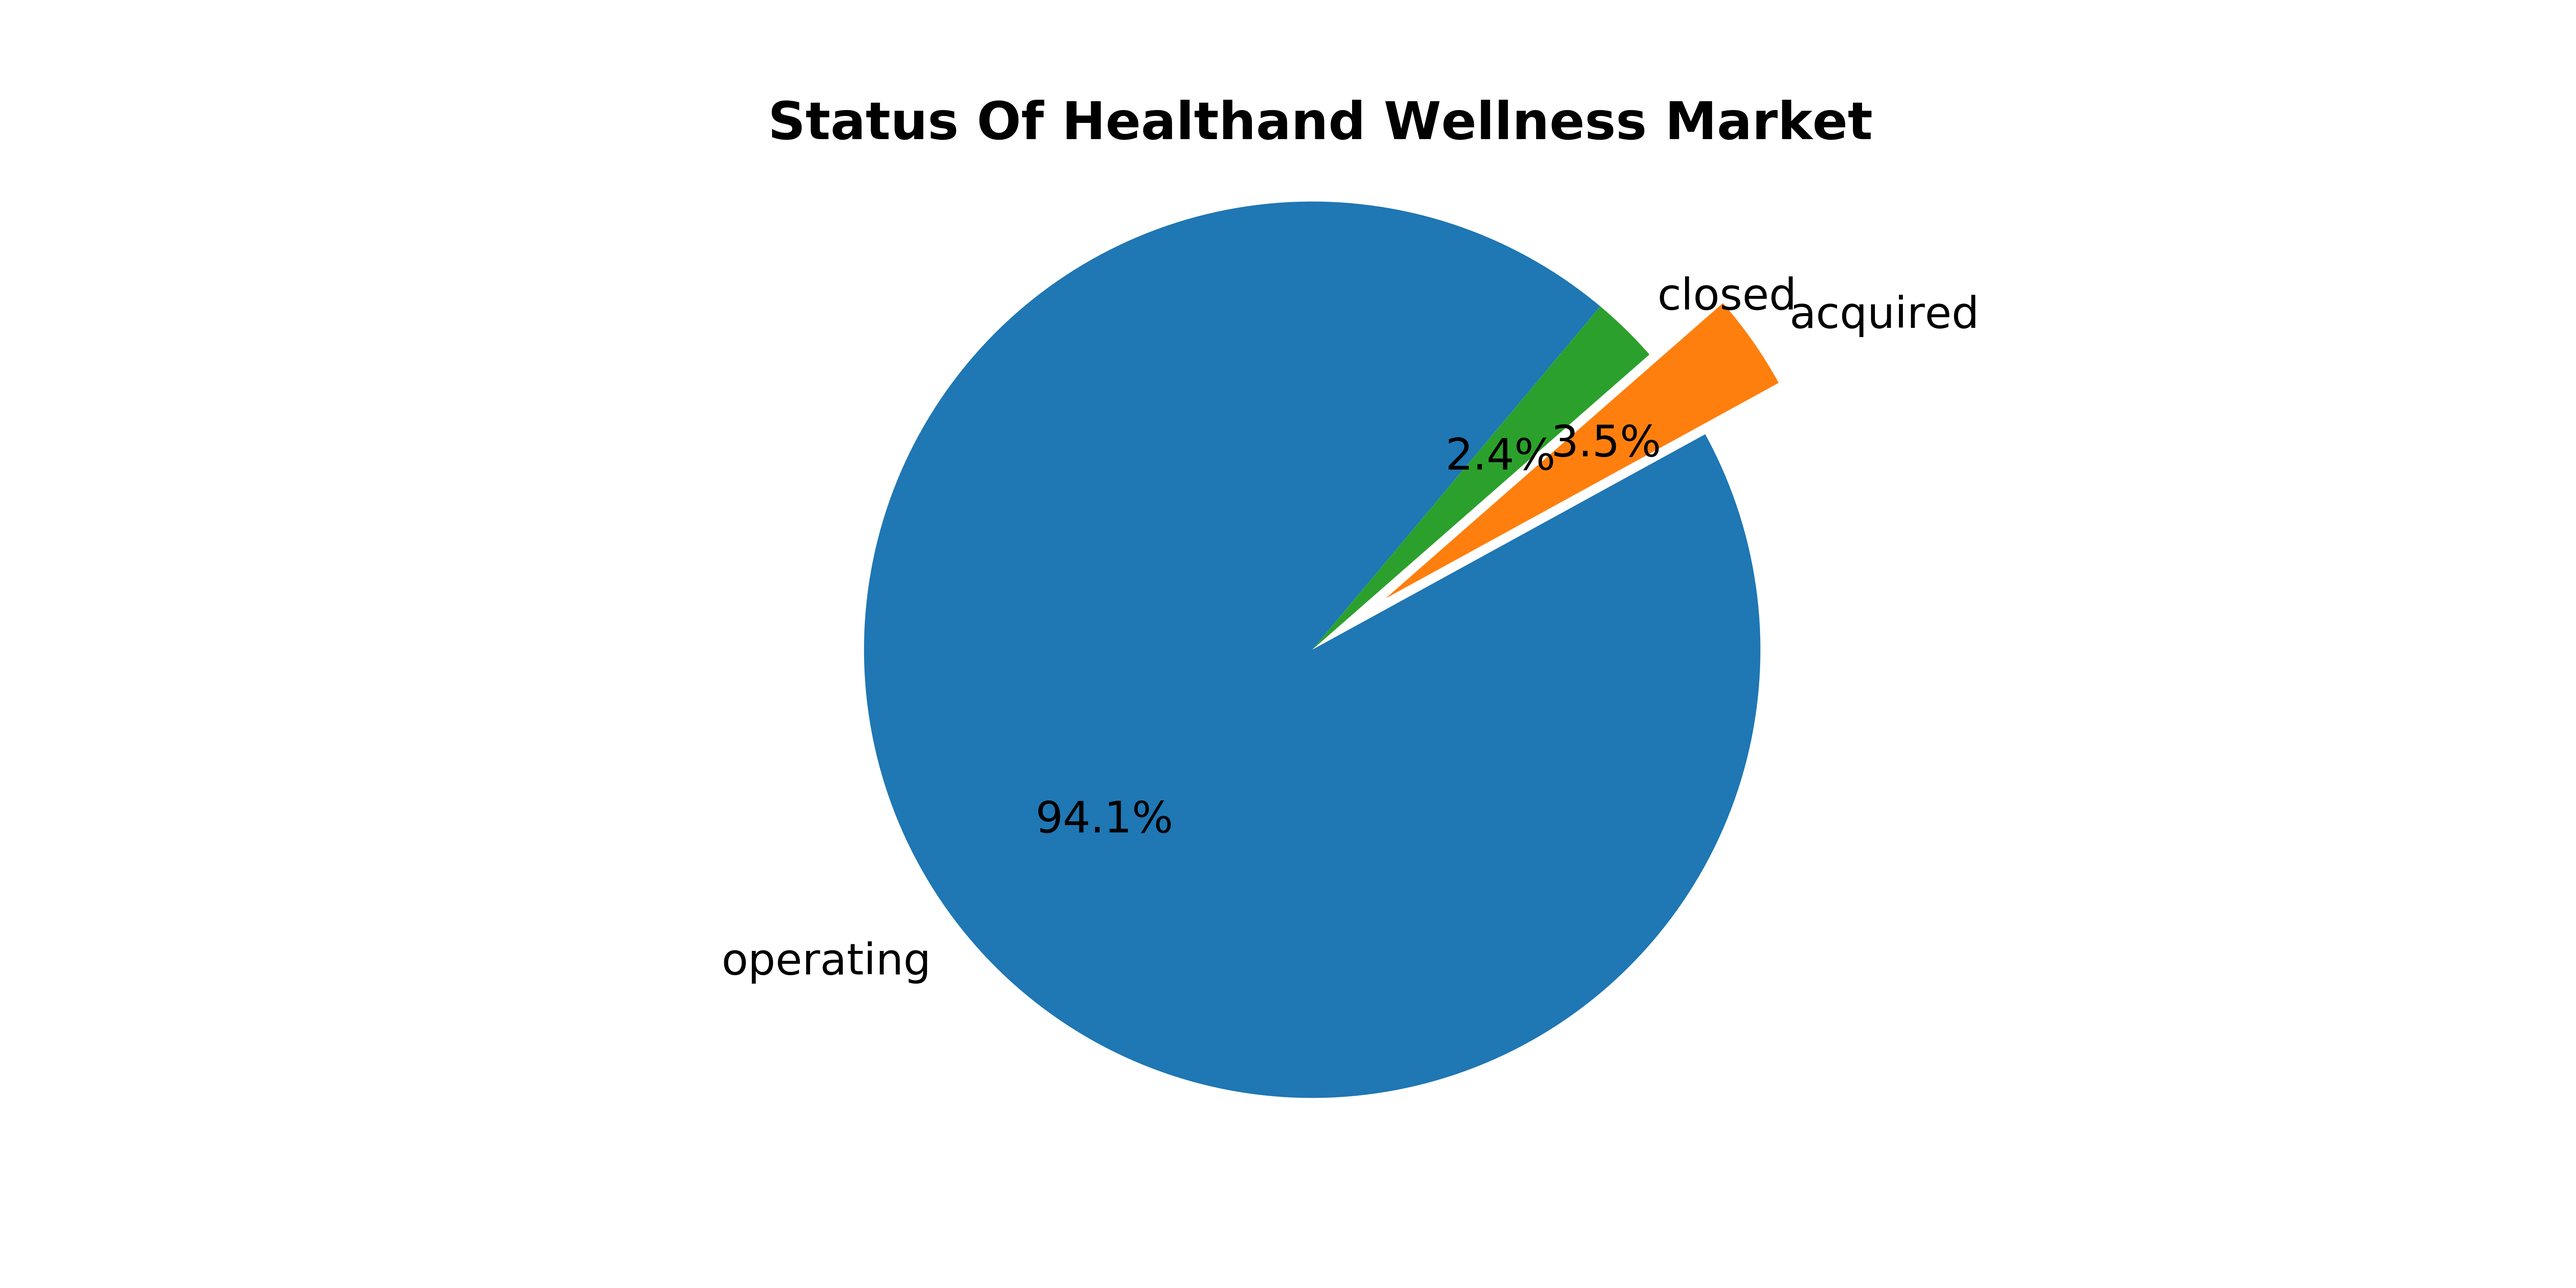
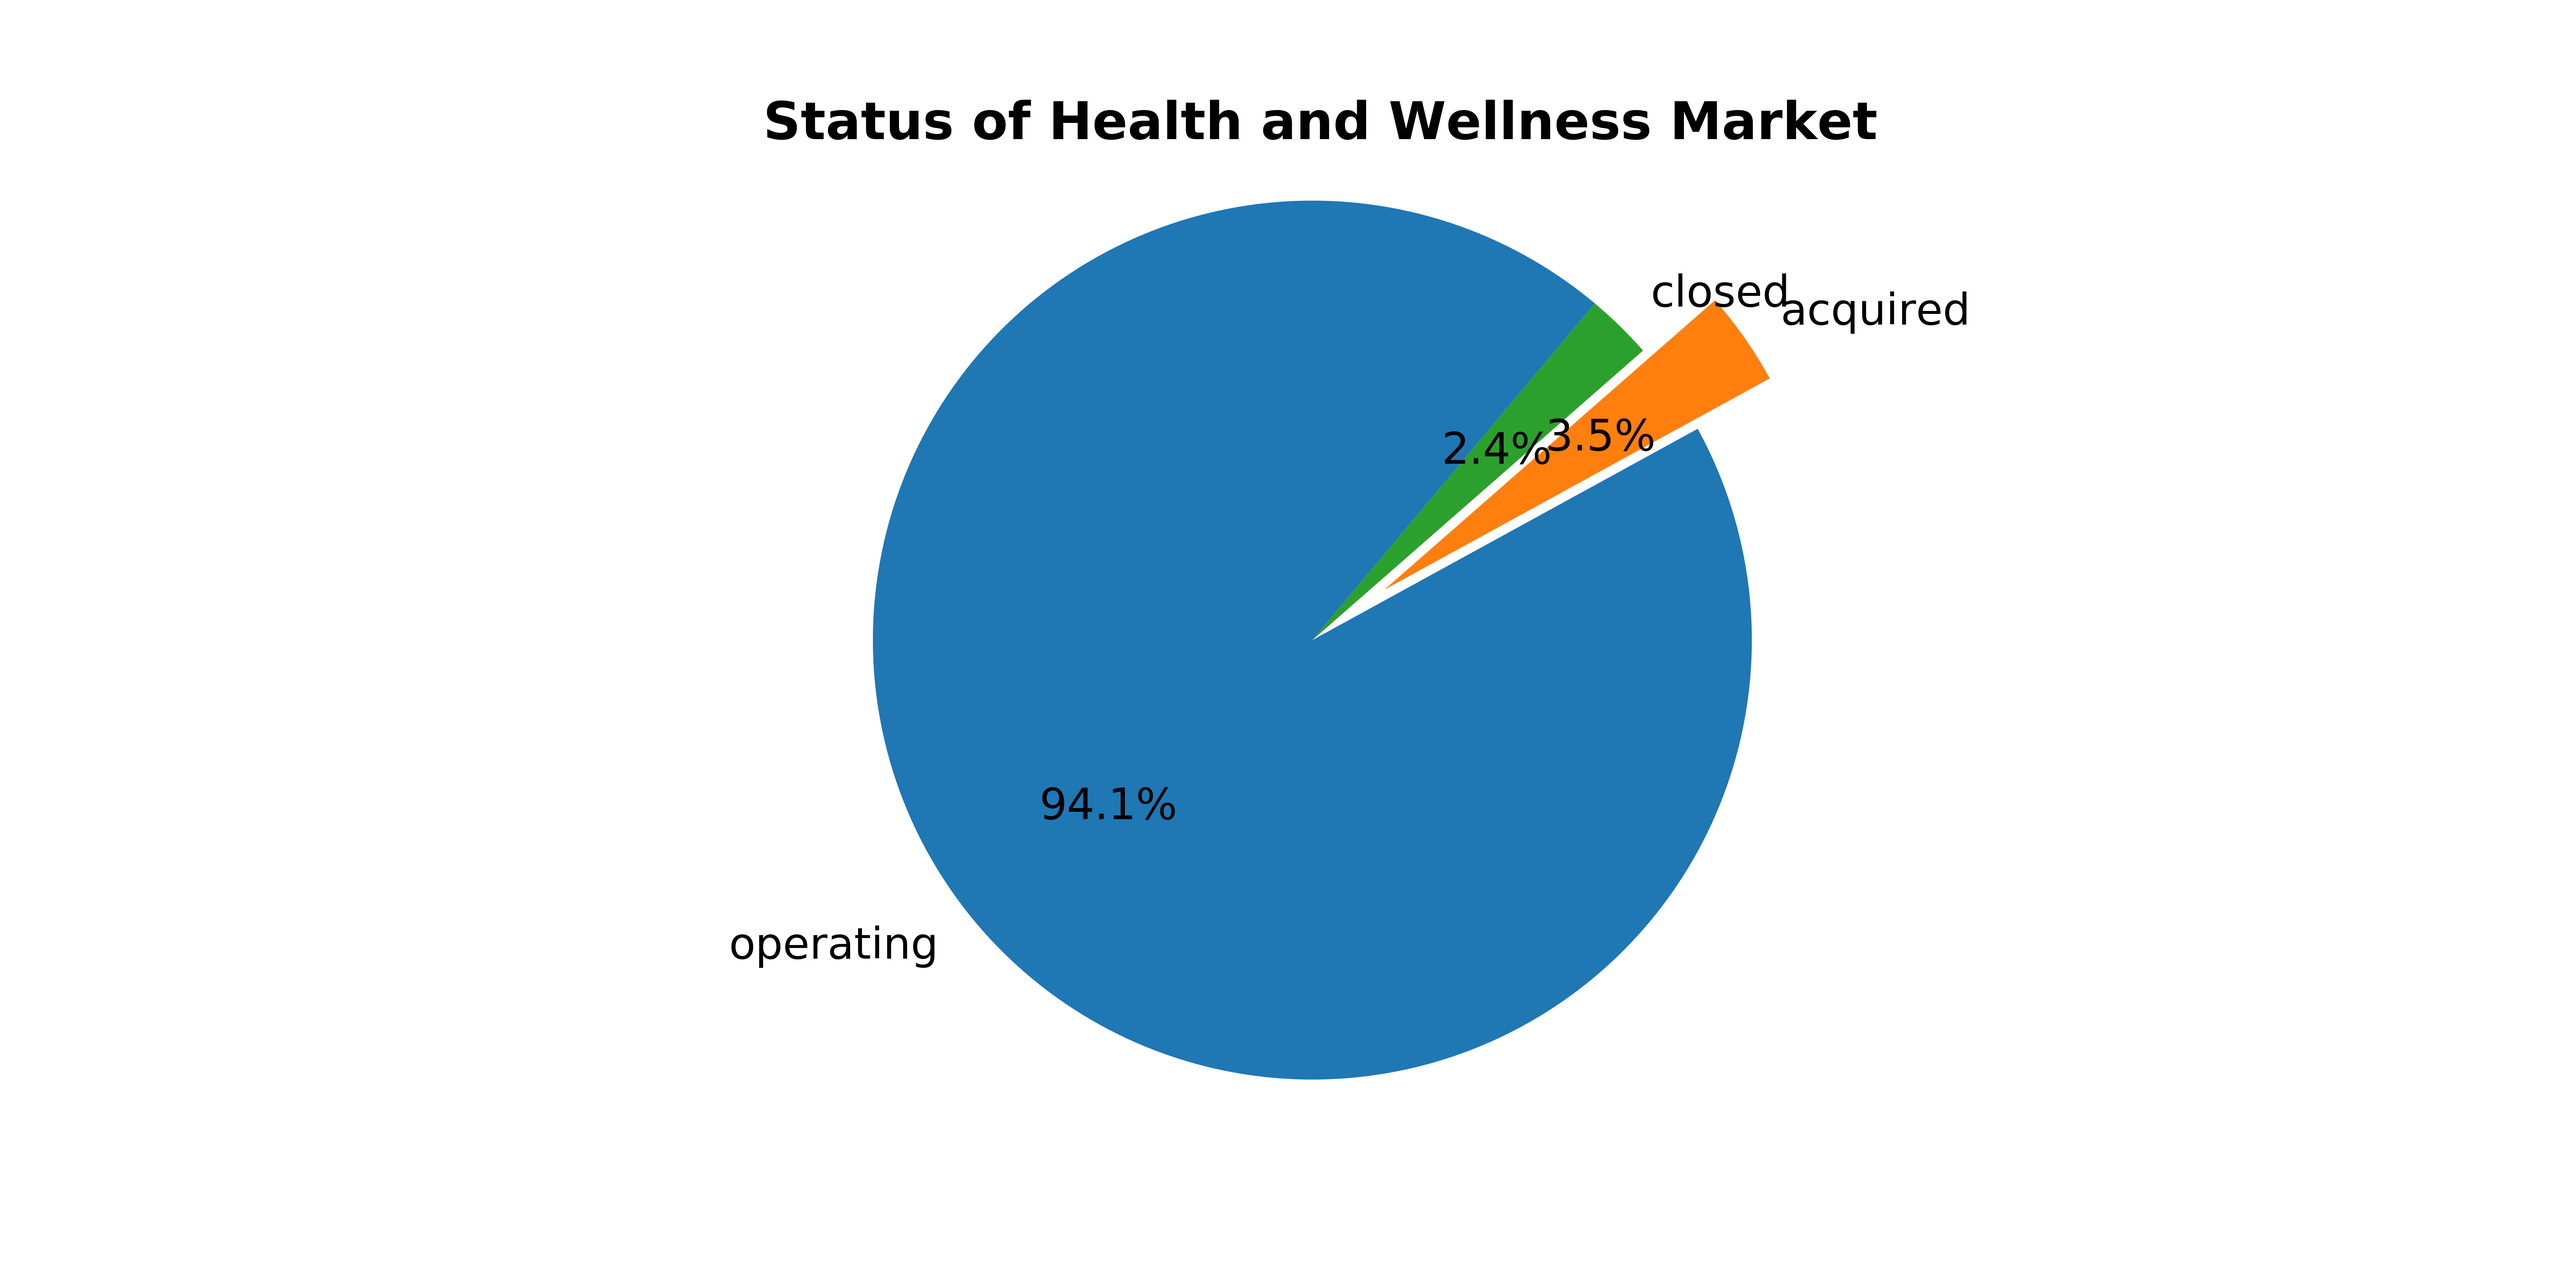
fixed titles on plots

diff --git a/src/investment.py b/src/investment.py
@@ -211,7 +211,7 @@ if __name__ == '__main__':
     plt.savefig('../images/all_markets_pie.png',dpi=500)
     plt.close()
 
-     #set targets as ones and zeros
+    #set targets as ones and zeros
     clean_feat_df['status'] = clean_feat_df['status'].apply(lambda x: x.replace('operating','0'))\
         .apply(lambda x: x.replace('acquired','1')).apply(lambda x: x.replace('closed','0'))
     clean_feat_df['status'] = clean_feat_df['status'].astype('int64')

diff --git a/README.md b/README.md
@@ -73,7 +73,7 @@ Continuing on this path of looking at how select features impacted my ultimate t
 ![](images/equity_crowdfunding_pie.png)
 
 ## Model Preparation 
-Before I could perform any sort of model creation I had to find a way to balance handle the imbalanced classes. I decided to use the SMOTE technique on the training data after the test train split. Next, I decided to change the funding dollars to a dummy variable because an initial investor would not know how much money is going to be raised before investing. I also chose to one hot encode my targets where one represented being acquired and zero represented operating or closed.  
+Because of the plots above, I decided to feature engineer funding into dummy variables because an initial investor would not know how much money is going to be raised before investing. I also chose to one hot encode my targets where one represented being acquired and zero represented operating or closed. After these modifiactions and fefore I could perform any sort of model creation I had to find a way to balance handle the imbalanced classes. I decided to use the SMOTE technique on the training data after the test train split.
 
 ### Baseline
 For my baseline model, I went with a simple logistic regression. I also decided on using the metrics of accuracy and precision. I decided precision would be best for the imbalances in my classes because the worst-case scenario would be predicting a business would be acquired when in reality it might not be. The output of my baseline model can be seen below. 
